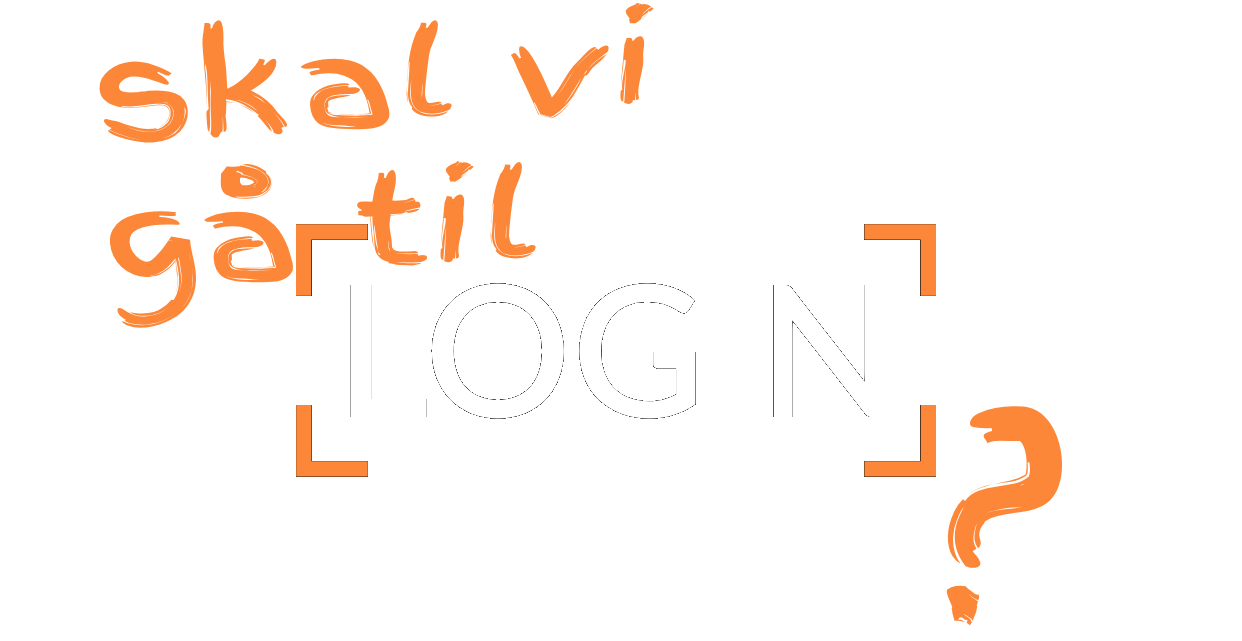
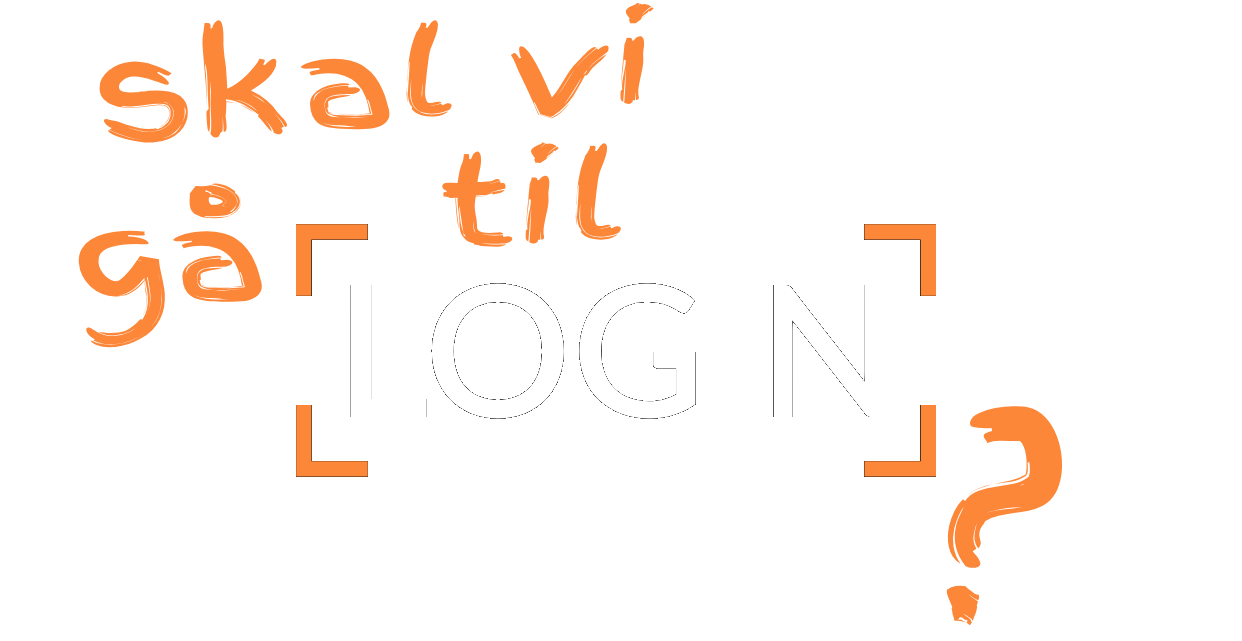
la til en slider og fiksa QoL greier i /login

Changed region(s): [[0.0612, 0.2496, 0.2448, 0.5616], [0.2754, 0.2184, 0.5201, 0.4368]]

diff --git a/login/script.js b/login/script.js
@@ -1,4 +1,5 @@
 const hidden = document.getElementById("hidden");
+const slider = document.getElementById("slider");
 
 const successtxt = `
 Ja! Stikk på USB du`
@@ -7,22 +8,28 @@ Nei! Fortsett å jobb`
 
 function sjekk() {
     if (document.getElementById('knapptekst').textContent === "Prøv igjen?") {
-        location.reload();
-        return;
-    }
-    loginShow();
+        restartAlt();
+    } else {
+        if (slider.checked) {
+            loginSuccess(); prøvIgjen();
+        } else {
+            random(); prøvIgjen();
+        }
+    } 
+};
+
+function random() {
     if (Math.floor(Math.random() * 2) === 1) {
         loginSuccess();
-        console.log("it worked");
     } else {
         loginFail();
-        console.log("it worked");
-    }
-    prøvIgjen();
+    } 
 };
 
 function loginShow() {
     document.getElementById('skalvi').style.display = "";
+    hidden.style.paddingTop = '';
+    document.getElementById('knapp').style.marginTop = '';
 };
 
 function loginSuccess() {
@@ -39,14 +46,20 @@ function loginFail() {
 function loginHide() {
     document.getElementById('skalvi').style.display = "none";
     hidden.style.paddingTop = '300px';
+    document.getElementById('knapp').style.marginTop = '195px';
 };
 
 function prøvIgjen() {
     document.getElementById('knapptekst').textContent = "Prøv igjen?";
-
 };
 
 function skytConfetti() {
     confetti({ particleCount: 100, angle: 60, spread: 70, origin: { x: 0, y: 0.7 } });
     confetti({ particleCount: 100, angle: 120, spread: 70, origin: { x: 1, y: 0.7 } });
+};
+
+function restartAlt() {
+    hidden.innerHTML = "";
+    loginShow();
+    document.getElementById('knapptekst').textContent = "Sjekk";
 };

diff --git a/login/style.css b/login/style.css
@@ -23,6 +23,7 @@ body {
     border-radius: 12px;
     cursor: pointer;
     font-family: 'Courier New', Courier, monospace;
+    color: white;
 }
 
 #knapp:hover {
@@ -38,4 +39,71 @@ body {
     font-size: 100px;
     font-family: 'Courier New', Courier, monospace;
     color: white;
+}
+
+.juksboks {
+    position: fixed;
+    bottom: 0;
+    left: 0;
+    display: flex;
+    align-items: center;
+    gap: 12px;
+    padding: 10px;
+}
+
+.juks {
+    margin: 0;
+    font-family: 'Courier New', Courier, monospace;
+    color: white;
+}
+
+.switch {
+  position: relative;
+  display: inline-block;
+  width: 60px;
+  height: 34px;
+}
+
+.switch input { 
+  opacity: 0;
+  width: 0;
+  height: 0;
+}
+
+.slider {
+  position: absolute;
+  cursor: pointer;
+  top: 0;
+  left: 0;
+  right: 0;
+  bottom: 0;
+  background-color: #ccc;
+  -webkit-transition: .4s;
+  transition: .4s;
+}
+
+.slider:before {
+  position: absolute;
+  content: "";
+  height: 26px;
+  width: 26px;
+  left: 4px;
+  bottom: 4px;
+  background-color: white;
+  -webkit-transition: .4s;
+  transition: .4s;
+}
+
+input:checked + .slider {
+  background-color: #fd8738;
+}
+
+input:focus + .slider {
+  box-shadow: 0 0 1px #fd8738;
+}
+
+input:checked + .slider:before {
+  -webkit-transform: translateX(26px);
+  -ms-transform: translateX(26px);
+  transform: translateX(26px);
 }

diff --git a/login/index.html b/login/index.html
@@ -15,6 +15,12 @@
                 <img src="images/skalvi.png" id="skalvi">
                 <button id="knapp" onclick="sjekk()"><p id="knapptekst">Sjekk</p></button>
             </div>
+            <div class="juksboks">
+                <label class="switch">
+                    <input type="checkbox" aria-pressed="false" id="slider"><span class="slider"></span>
+                </label>
+                <p class="juks">hacker knapp</p>
+            </div>
        </main>
         <script src="https://cdn.jsdelivr.net/npm/canvas-confetti@1.9.3/dist/confetti.browser.min.js"></script>
         <script src="script.js" defer></script>
